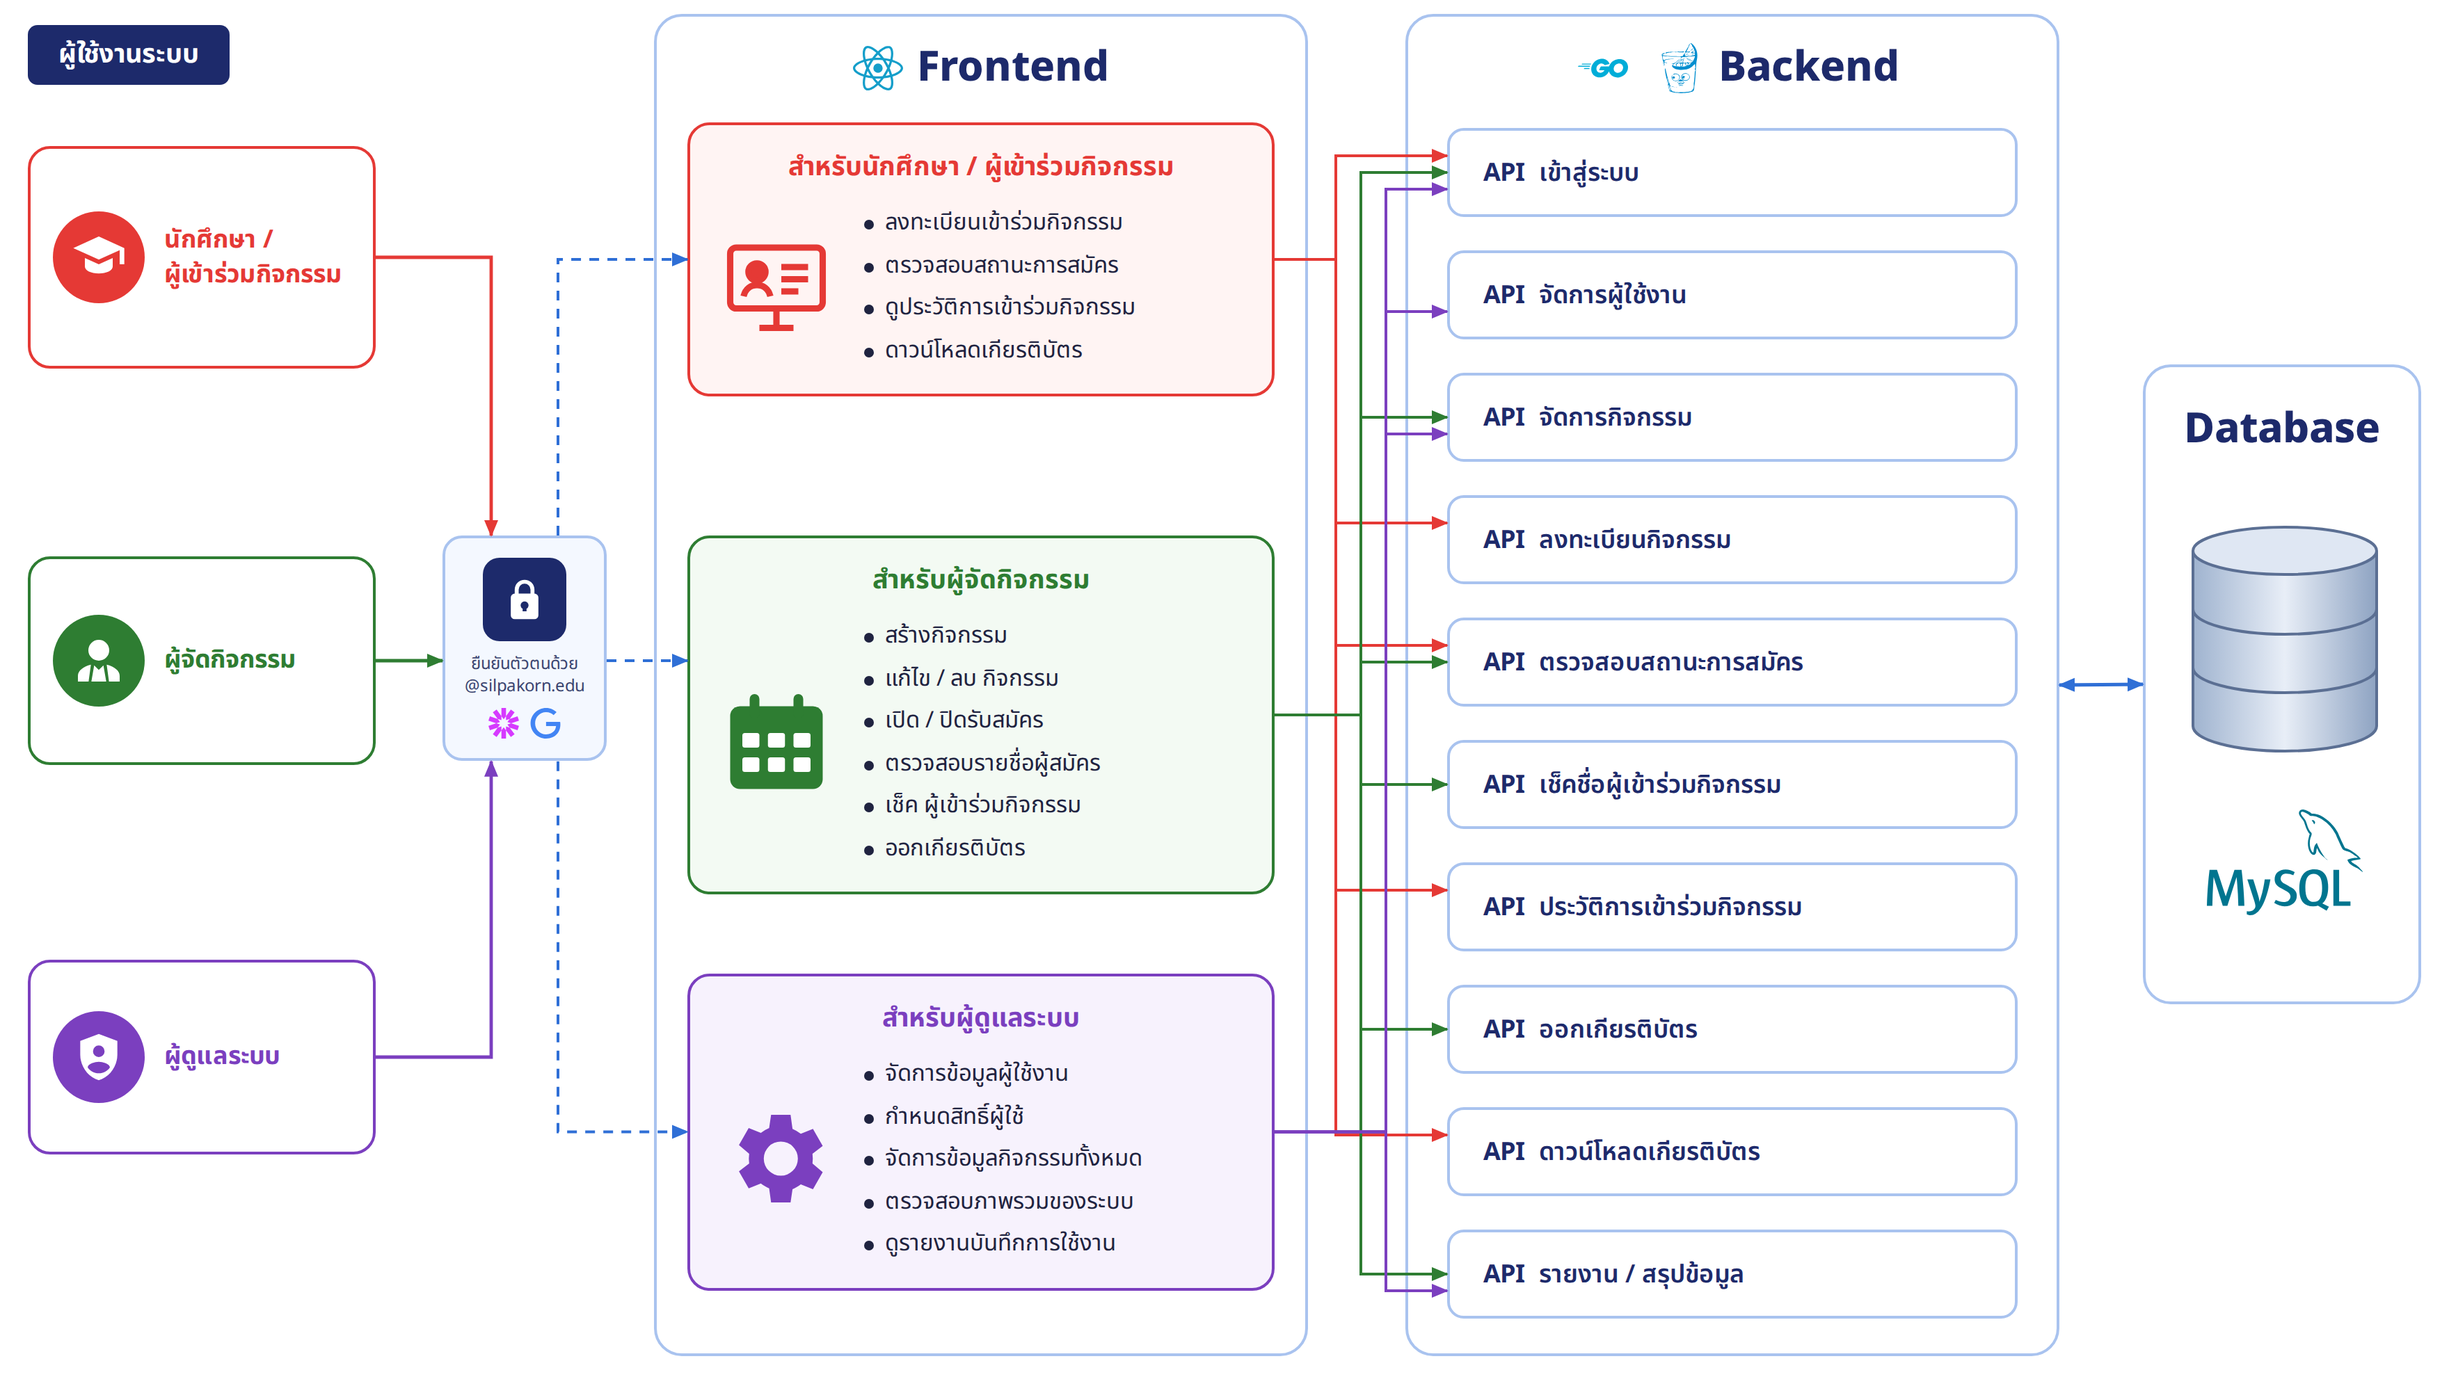
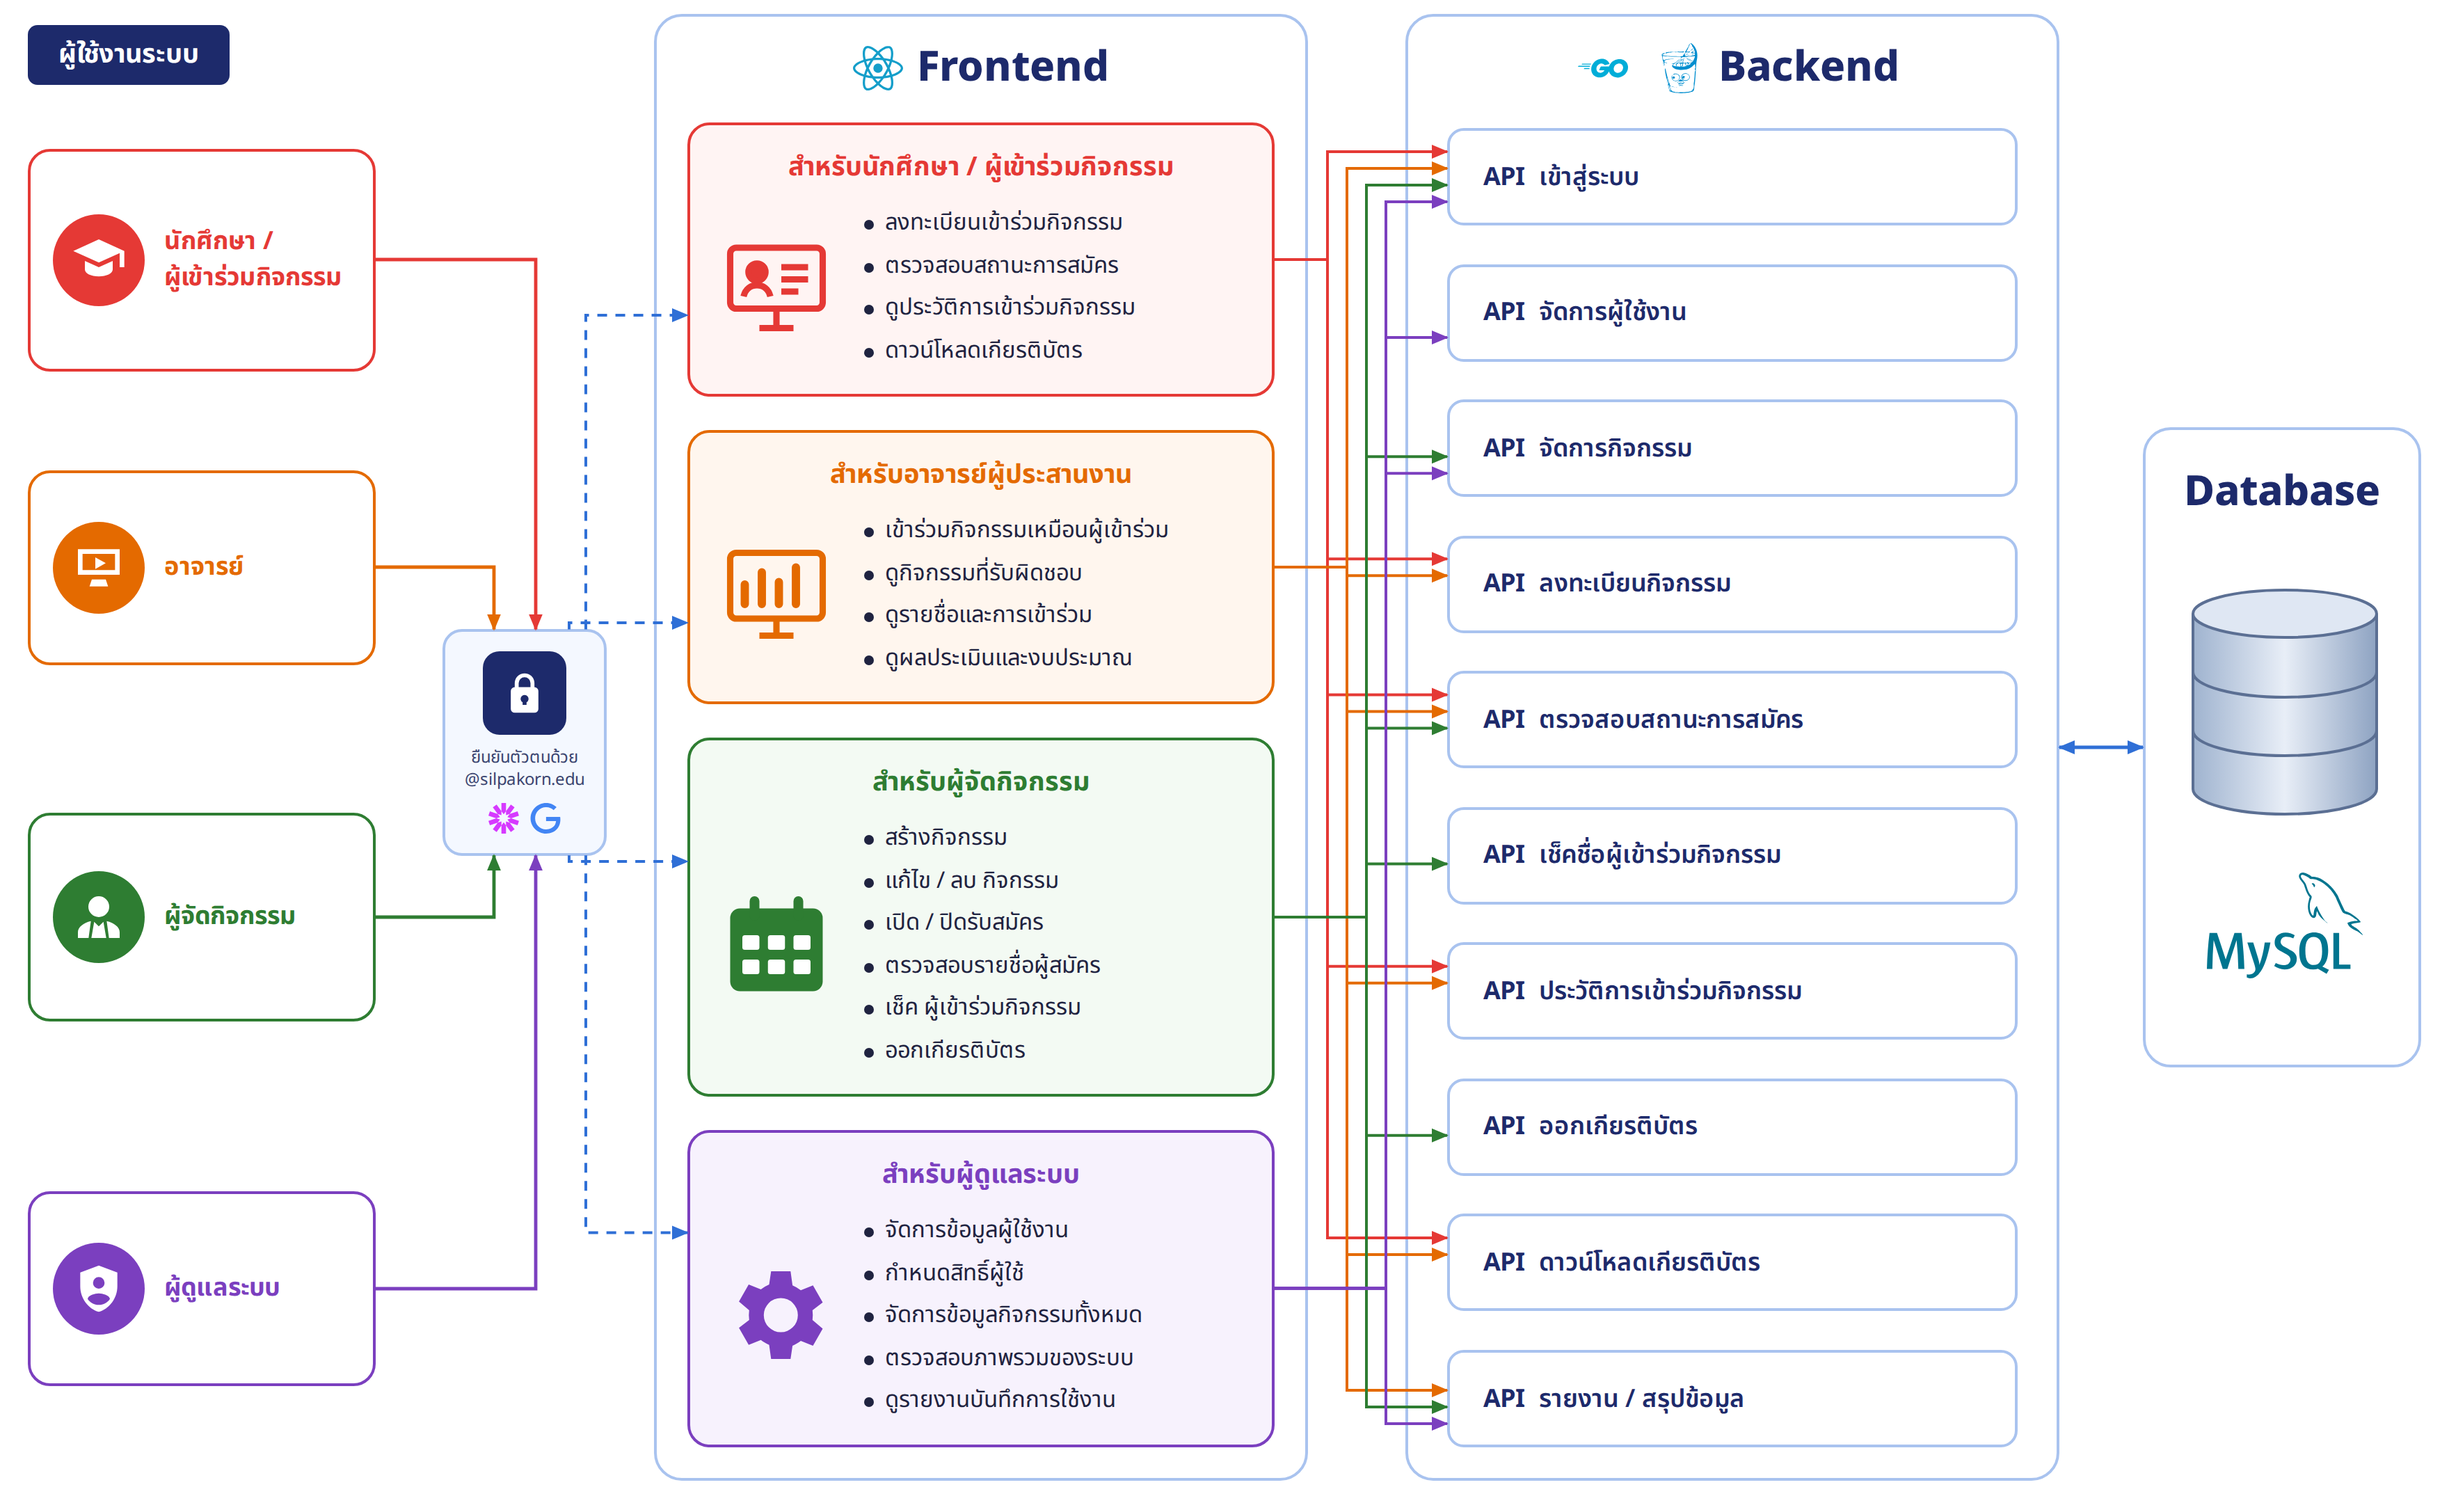
Add the teacher role to the report's architecture diagram

diff --git a/docs/diagrams/src/architecture-simple.html b/docs/diagrams/src/architecture-simple.html
@@ -6,10 +6,10 @@
 <link rel="preconnect" href="https://fonts.googleapis.com">
 <link href="https://fonts.googleapis.com/css2?family=Noto+Sans+Thai:wght@400;500;600;700;800&display=swap" rel="stylesheet">
 <style>
-  :root{--red:#e53935;--red-bg:#fff4f3;--green:#2e7d32;--green-bg:#f3faf3;--purple:#7b3fbf;--purple-bg:#f7f2fd;--blue:#2f6fd6;--frame:#a9c3ef;--navy:#1d2a6b}
+  :root{--red:#e53935;--red-bg:#fff4f3;--green:#2e7d32;--green-bg:#f3faf3;--purple:#7b3fbf;--purple-bg:#f7f2fd;--orange:#e46a00;--orange-bg:#fff6ee;--blue:#2f6fd6;--frame:#a9c3ef;--navy:#1d2a6b}
   *{box-sizing:border-box;margin:0;padding:0}
   body{background:#fff;font-family:'Noto Sans Thai',Loma,sans-serif;color:#1f2340}
-  #canvas{position:relative;width:1760px;height:990px;background:#fff;overflow:hidden}
+  #canvas{position:relative;width:1760px;height:1260px;background:#fff;overflow:hidden}
   .wires{position:absolute;inset:0;pointer-events:none;overflow:visible}
   .abs{position:absolute}
   .tag{display:inline-block;padding:7px 22px;border-radius:7px;background:var(--navy);color:#fff;font-weight:700;font-size:19px}
@@ -20,6 +20,7 @@
   .actor b{font-size:18px;line-height:1.4;white-space:nowrap}
   .actor.stu{border-color:var(--red)} .actor.stu .ic{background:var(--red)} .actor.stu b{color:var(--red)}
   .actor.org{border-color:var(--green)} .actor.org .ic{background:var(--green)} .actor.org b{color:var(--green)}
+  .actor.tea{border-color:var(--orange)} .actor.tea .ic{background:var(--orange)} .actor.tea b{color:var(--orange)}
   .actor.adm{border-color:var(--purple)} .actor.adm .ic{background:var(--purple)} .actor.adm b{color:var(--purple)}
 
   .lock{border:2px solid var(--frame);border-radius:14px;background:#f4f8ff;display:flex;flex-direction:column;align-items:center;gap:8px;padding:14px 8px;text-align:center}
@@ -41,6 +42,7 @@
   .panel li::before{content:'';position:absolute;left:3px;top:13px;width:7px;height:7px;border-radius:50%;background:#1f2340}
   .panel.stu{border-color:var(--red);background:var(--red-bg)} .panel.stu h3{color:var(--red)}
   .panel.org{border-color:var(--green);background:var(--green-bg)} .panel.org h3{color:var(--green)}
+  .panel.tea{border-color:var(--orange);background:var(--orange-bg)} .panel.tea h3{color:var(--orange)}
   .panel.adm{border-color:var(--purple);background:var(--purple-bg)} .panel.adm h3{color:var(--purple)}
 
   .api{border:2px solid var(--frame);border-radius:12px;background:#fff;display:flex;align-items:center;padding:0 24px;font-size:18px;font-weight:600;color:var(--navy)}
@@ -57,6 +59,10 @@
   <div id="a-stu" class="abs actor stu" style="left:20px;top:105px;width:250px;height:160px">
     <div class="ic"><svg viewBox="0 0 24 24" fill="#fff"><path d="M12 3 1 8l11 5 9-4.1V15h2V8L12 3Zm-6 9.3V16c0 1.7 2.7 3 6 3s6-1.3 6-3v-3.7l-6 2.7-6-2.7Z"/></svg></div>
     <b>นักศึกษา /<br>ผู้เข้าร่วมกิจกรรม</b>
+  </div>
+  <div id="a-tea" class="abs actor tea" style="left:20px;top:0;width:250px;height:140px">
+    <div class="ic"><svg viewBox="0 0 24 24" fill="#fff"><path d="M3 4h18v11H3V4Zm2 2v7h14V6H5Zm4 11h6l1 3H8l1-3Zm1.5-9.5 4.5 2.5-4.5 2.5v-5Z"/></svg></div>
+    <b>อาจารย์</b>
   </div>
   <div id="a-org" class="abs actor org" style="left:20px;top:400px;width:250px;height:150px">
     <div class="ic"><svg viewBox="0 0 24 24" fill="#fff"><path d="M12 12a4.5 4.5 0 1 0 0-9 4.5 4.5 0 0 0 0 9Zm-2 2-1.2 7h6.4L14 14l-2 2-2-2Zm-1.4-.3C5.4 14.4 3 16.3 3 18.5V21h4.6l1-7.3Zm6.8 0 1 7.3H21v-2.5c0-2.2-2.4-4.1-5.6-4.8Z"/></svg></div>
@@ -83,6 +89,13 @@
     <div class="body">
       <svg class="pic" viewBox="0 0 48 48" fill="none" stroke="#e53935" stroke-width="2.6" stroke-linejoin="round"><rect x="5" y="8" width="38" height="25" rx="2.5"/><path d="M17 41h14M24 33v8"/><circle cx="16" cy="18" r="3.5" fill="#e53935"/><path d="M10.5 28c.8-3.2 3-4.6 5.5-4.6s4.7 1.4 5.5 4.6" /><path d="M26 16h11M26 21h11M26 26h7"/></svg>
       <ul><li>ลงทะเบียนเข้าร่วมกิจกรรม</li><li>ตรวจสอบสถานะการสมัคร</li><li>ดูประวัติการเข้าร่วมกิจกรรม</li><li>ดาวน์โหลดเกียรติบัตร</li></ul>
+    </div>
+  </div>
+  <div id="p-tea" class="abs panel tea" style="left:494px;top:0;width:422px">
+    <h3>สำหรับอาจารย์ผู้ประสานงาน</h3>
+    <div class="body">
+      <svg class="pic" viewBox="0 0 48 48" fill="none" stroke="#e46a00" stroke-width="2.6" stroke-linejoin="round"><rect x="5" y="7" width="38" height="27" rx="2.5"/><path d="M17 41h14M24 34v7"/><path d="M11 28V20M18 28V15M25 28v-9M32 28V13" stroke-linecap="round" stroke-width="3.4"/></svg>
+      <ul><li>เข้าร่วมกิจกรรมเหมือนผู้เข้าร่วม</li><li>ดูกิจกรรมที่รับผิดชอบ</li><li>ดูรายชื่อและการเข้าร่วม</li><li>ดูผลประเมินและงบประมาณ</li></ul>
     </div>
   </div>
   <div id="p-org" class="abs panel org" style="left:494px;top:385px;width:422px">
@@ -126,25 +139,43 @@
     `<div class="abs api" id="api${i}" style="left:1040px;top:${92 + i * 88}px;width:410px;height:64px"><span>API</span>${t}</div>`));
 
   window.drawWires = function () {
+    // Stack the role panels, put each person beside their panel, the gate
+    // between them and the APIs down the backend, then size the frames.
+    const el = (id) => document.getElementById(id);
+    let top = 88;
+    ['p-stu', 'p-tea', 'p-org', 'p-adm'].forEach((id) => { el(id).style.top = top + 'px'; top += el(id).offsetHeight + 24; });
+    const bottom = top - 24;
+    const centre = (id) => el(id).offsetTop + el(id).offsetHeight / 2;
+    [['a-stu', 'p-stu'], ['a-tea', 'p-tea'], ['a-org', 'p-org'], ['a-adm', 'p-adm']].forEach(([a, p]) => {
+      el(a).style.top = (centre(p) - el(a).offsetHeight / 2) + 'px';
+    });
+    el('lock').style.top = ((centre('p-tea') + centre('p-org')) / 2 - el('lock').offsetHeight / 2) + 'px';
+    ['fe', 'be'].forEach((id) => { el(id).style.height = (bottom + 24 - 10) + 'px'; });
+    const step = (bottom - 92 - 70) / 9;
+    APIS.forEach((_, i) => { el('api' + i).style.top = (92 + i * step) + 'px'; el('api' + i).style.height = '70px'; });
+    el('db').style.top = (10 + el('be').offsetHeight / 2 - el('db').offsetHeight / 2) + 'px';
+    document.getElementById('canvas').style.height = (bottom + 40) + 'px';
+
     const R = '#e53935', G = '#2e7d32', P = '#7b3fbf', B = '#2f6fd6';
     // people go through the sign-in gate
-    connect('a-stu', 'lock', { from: 'right', to: 'top', route: 'hv', color: R, width: 2.4, end: 'arrow', toShift: -24 });
-    // the organizer's path runs straight across at the height of its card
-    const mid = (id) => { const r = document.getElementById(id).getBoundingClientRect(); return r.top + r.height / 2; };
-    const y = mid('a-org');
-    connect('a-org', 'lock', { from: 'right', to: 'left', color: G, width: 2.4, end: 'arrow', toShift: y - mid('lock') });
-    connect('a-adm', 'lock', { from: 'right', to: 'bottom', route: 'hv', color: P, width: 2.4, end: 'arrow', toShift: -24 });
+    const O = '#e46a00';
+    connect('a-stu', 'lock', { from: 'right', to: 'top', route: 'hv', color: R, width: 2.4, end: 'arrow', toShift: 8 });
+    connect('a-tea', 'lock', { from: 'right', to: 'top', route: 'hv', color: O, width: 2.4, end: 'arrow', toShift: -22 });
+    connect('a-org', 'lock', { from: 'right', to: 'bottom', route: 'hv', color: G, width: 2.4, end: 'arrow', toShift: -22 });
+    connect('a-adm', 'lock', { from: 'right', to: 'bottom', route: 'hv', color: P, width: 2.4, end: 'arrow', toShift: 8 });
     // then into the part of the site for their role
-    connect('lock', 'p-stu', { from: 'top', to: 'left', route: 'vh', color: B, width: 2, dash: '7 6', end: 'arrow', fromShift: 24 });
-    connect('lock', 'p-org', { from: 'right', to: 'left', color: B, width: 2, dash: '7 6', end: 'arrow', fromShift: y - mid('lock'), toShift: y - mid('p-org') });
-    connect('lock', 'p-adm', { from: 'bottom', to: 'left', route: 'vh', color: B, width: 2, dash: '7 6', end: 'arrow', fromShift: 24 });
+    connect('lock', 'p-stu', { from: 'top', to: 'left', route: 'vh', color: B, width: 2, dash: '7 6', end: 'arrow', fromShift: 44, toShift: 40 });
+    connect('lock', 'p-tea', { from: 'top', to: 'left', route: 'vh', color: B, width: 2, dash: '7 6', end: 'arrow', fromShift: 32, toShift: 40 });
+    connect('lock', 'p-org', { from: 'bottom', to: 'left', route: 'vh', color: B, width: 2, dash: '7 6', end: 'arrow', fromShift: 32, toShift: -40 });
+    connect('lock', 'p-adm', { from: 'bottom', to: 'left', route: 'vh', color: B, width: 2, dash: '7 6', end: 'arrow', fromShift: 44, toShift: -40 });
     // each role's page calls the APIs it needs
     const uses = [
-      ['p-stu', R, 960, [0, 3, 4, 6, 8]],
-      ['p-org', G, 978, [0, 2, 4, 5, 7, 9]],
+      ['p-stu', R, 954, [0, 3, 4, 6, 8]],
+      ['p-tea', O, 968, [0, 3, 4, 6, 8, 9]],
+      ['p-org', G, 982, [0, 2, 4, 5, 7, 9]],
       ['p-adm', P, 996, [0, 1, 2, 9]],
     ];
-    const shift = { 'p-stu': -12, 'p-org': 0, 'p-adm': 12 };
+    const shift = { 'p-stu': -18, 'p-tea': -6, 'p-org': 6, 'p-adm': 18 };
     uses.forEach(([panel, color, midX, apis]) => apis.forEach((i) =>
       // one trunk per role, branching off to each API
       connect(panel, 'api' + i, { from: 'right', to: 'left', route: 'elbow', midX, color, width: 2, end: 'arrow', toShift: shift[panel] })));
